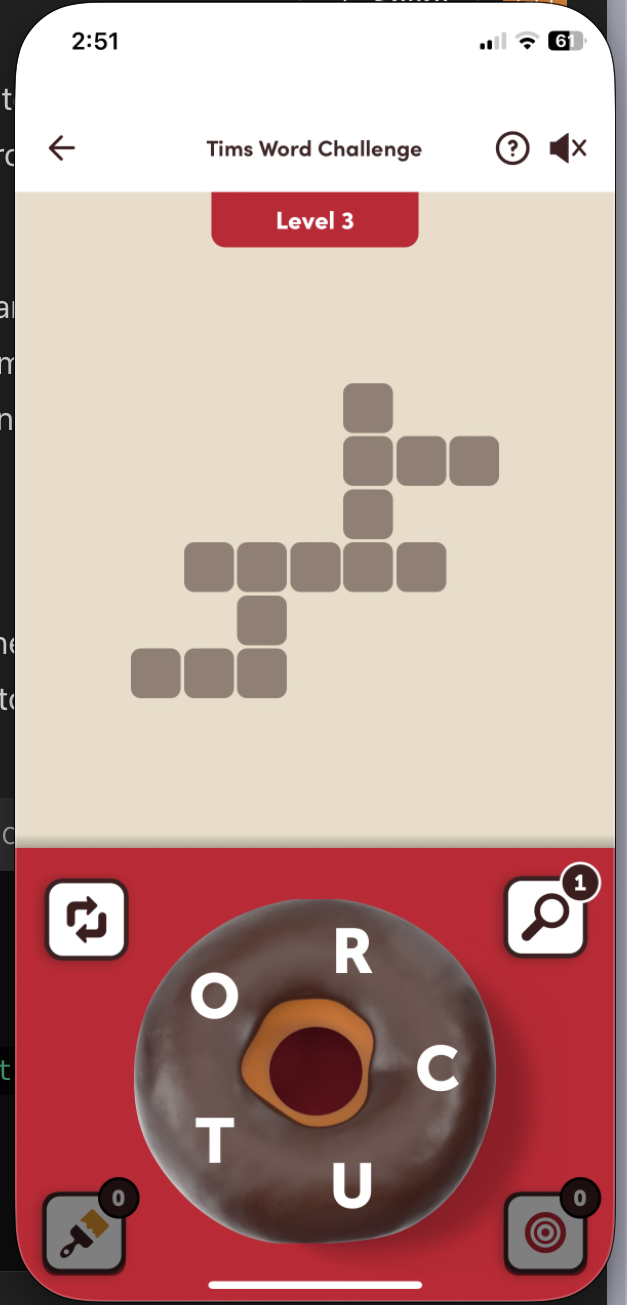
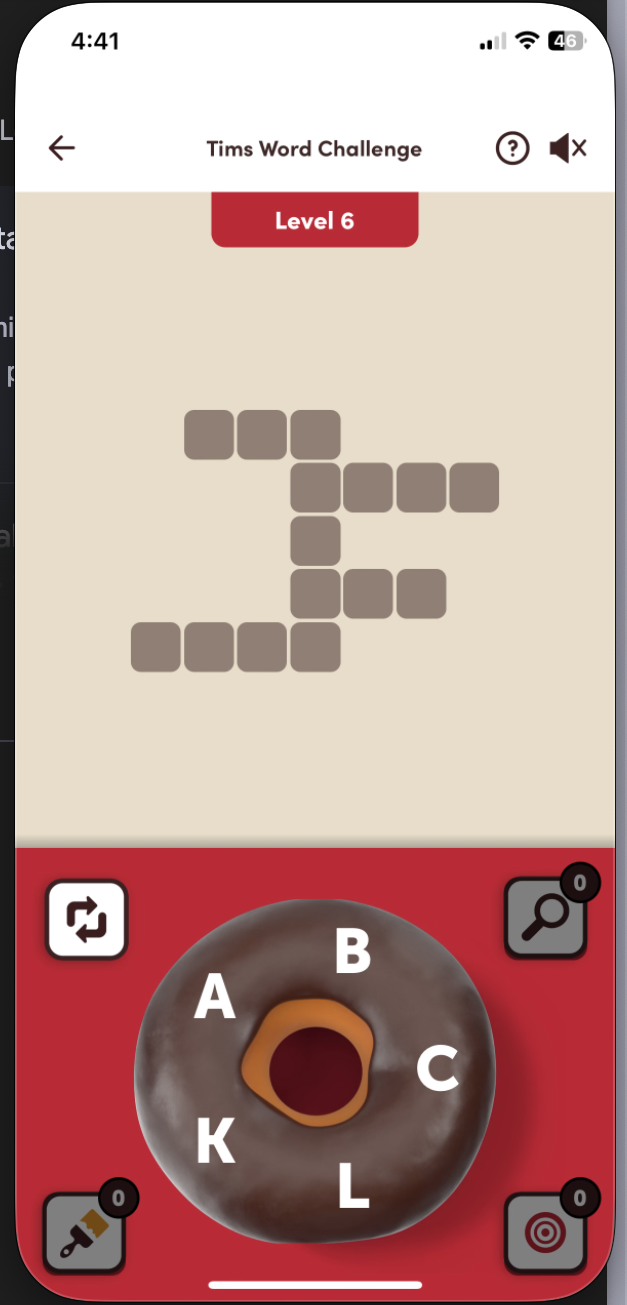
add box_grid

diff --git a/server/word_grid.py b/server/word_grid.py
@@ -1,0 +1,137 @@
+
+from PIL import Image
+from numpy.core.shape_base import block
+
+# convert to rgb
+block_color = "#907F75"
+bg_color = "#E7DDCA"
+
+space = 5
+block_size = 49
+
+block_color = (144, 127, 117, 255)
+bg_color = (231, 221, 202, 255)
+
+image = Image.open("assets/ss.png")
+width = image.width
+height = 500
+offset_y = 300
+
+# Crop the image to the word grid
+image = image.crop((20, offset_y, width - 20, height + offset_y))
+
+# the values that define the bounding box of the word grid
+left_cutoff = 0
+right_cutoff = 0
+top_cutoff = 0
+bottom_cutoff = 0
+
+# Find the left cutoff
+
+for x in range(image.width):
+    for y in range(image.height):
+        pixel = image.getpixel((x, y))
+        if pixel == block_color:
+            left_cutoff = x
+            break
+    if left_cutoff != 0:
+        break
+
+# Find the right cutoff
+for x in range(image.width - 1, 0, -1):
+    for y in range(image.height):
+        pixel = image.getpixel((x, y))
+        if pixel == block_color:
+            right_cutoff = x
+            break
+    if right_cutoff != 0:
+        break
+
+
+# Find the top cutoff
+for y in range(image.height):
+    for x in range(image.width):
+        pixel = image.getpixel((x, y))
+        if pixel == block_color:
+            top_cutoff = y
+            break
+    if top_cutoff != 0:
+        break
+
+
+# Find the bottom cutoff
+for y in range(image.height - 1, 0, -1):
+    for x in range(image.width):
+        pixel = image.getpixel((x, y))
+        if pixel == block_color:
+            bottom_cutoff = y
+            break
+    if bottom_cutoff != 0:
+        break
+
+
+# Crop the image to the word grid
+image = image.crop((left_cutoff, top_cutoff, right_cutoff, bottom_cutoff))
+
+
+
+image.show()
+
+matrix = []
+
+for y in range(0, image.height, block_size + space):
+    row = []
+    i = 0
+    for x in range(0, image.width, block_size + space):
+        i += 1
+        mid_y = y + block_size // 2 if y + block_size // 2 < image.height else image.height - 1
+        mid_x = x + block_size // 2 if x + block_size // 2 < image.width else image.width - block_size // 2
+        pixel = image.getpixel((mid_x, mid_y))
+        if pixel == block_color:
+            row.append(1)
+        else:
+            row.append(0)
+    matrix.append(row)
+
+words_counts = []
+curr_count = 0
+
+# Count the number of blocks in each row
+for i in range(len(matrix)):
+    for j in range(len(matrix[0])):
+        if matrix[i][j] == 1:
+            curr_count += 1
+            if j == len(matrix[0]) - 1:
+                if curr_count > 2:
+                    words_counts.append(curr_count)
+        elif matrix[i][j] == 0 or j == len(matrix[0]) - 1:
+            if curr_count > 2:
+                words_counts.append(curr_count)
+            curr_count = 0
+    curr_count = 0
+
+# Count the number of blocks in each column
+for i in range(len(matrix[0])):
+    for j in range(len(matrix)):
+        if matrix[j][i] == 1:
+            curr_count += 1
+            if j == len(matrix) - 1:
+                if curr_count > 2:
+                    words_counts.append(curr_count)
+        elif matrix[j][i] == 0 or j == len(matrix) - 1:
+            if curr_count > 2:
+                words_counts.append(curr_count)
+                curr_count = 0
+    curr_count = 0
+
+
+# output to file 
+with open('assets/word_grid.txt', 'w') as f:
+    for count in words_counts:
+        f.write(f"{count}\n")
+    f.close()
+
+
+
+
+

diff --git a/server/main.py b/server/main.py
@@ -19,8 +19,25 @@ for letter in letters:
     if not letter.isalpha():
         letters.remove(letter)
 
-cmd = f"cd c && make && ./main {','.join(letters)} 3,4,5,6 words_alpha.txt"
+process.run(["python", "word_grid.py"])
+
+word_grid_path = "assets/word_grid.txt"
+
+# Read the word grid from the file
+with open(word_grid_path, 'r') as f:
+    word_grid = f.read().split('\n')
+    f.close()
+
+# filter out non letter
+for word in word_grid:
+    if not word.isnumeric():
+        word_grid.remove(word)
+
+print("Word Grid:", word_grid)
+
+cmd = f"cd c && make && ./main {','.join(letters)} {','.join(word_grid)} words_alpha.txt"
 
 # Run the combined command in the shell
-process = process.run(cmd, shell=True, check=True)
+process.run(cmd, shell=True, check=True)
+
 
